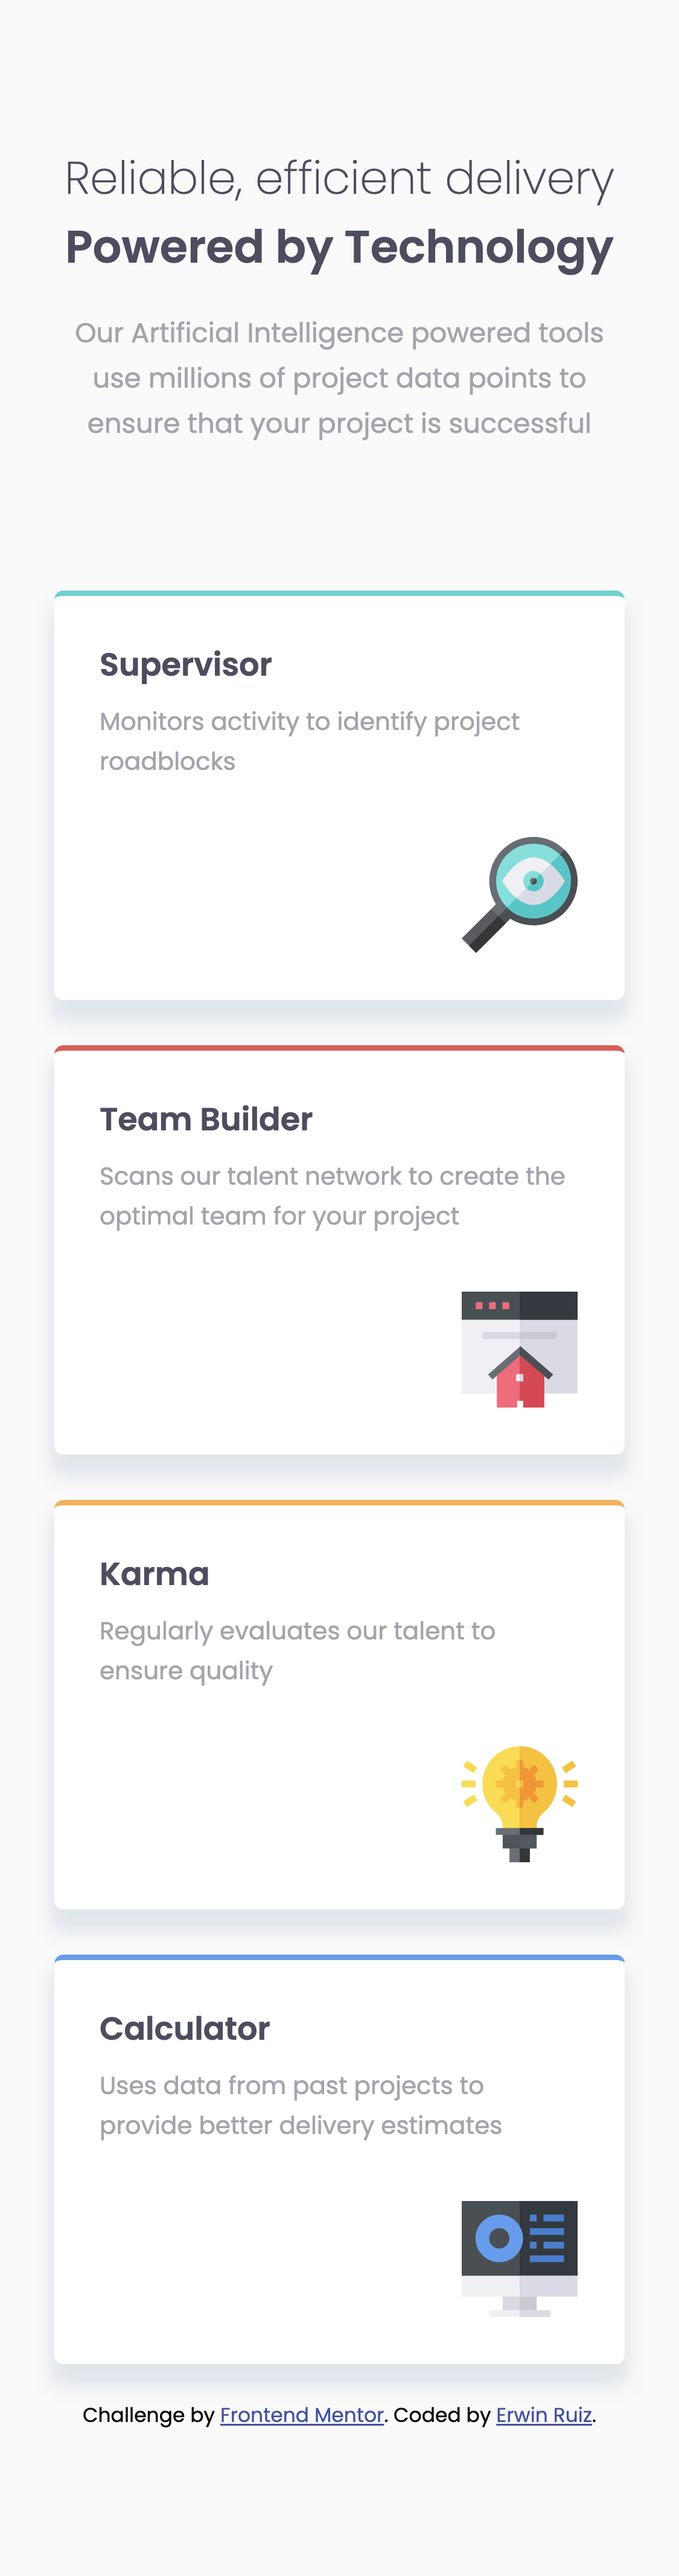
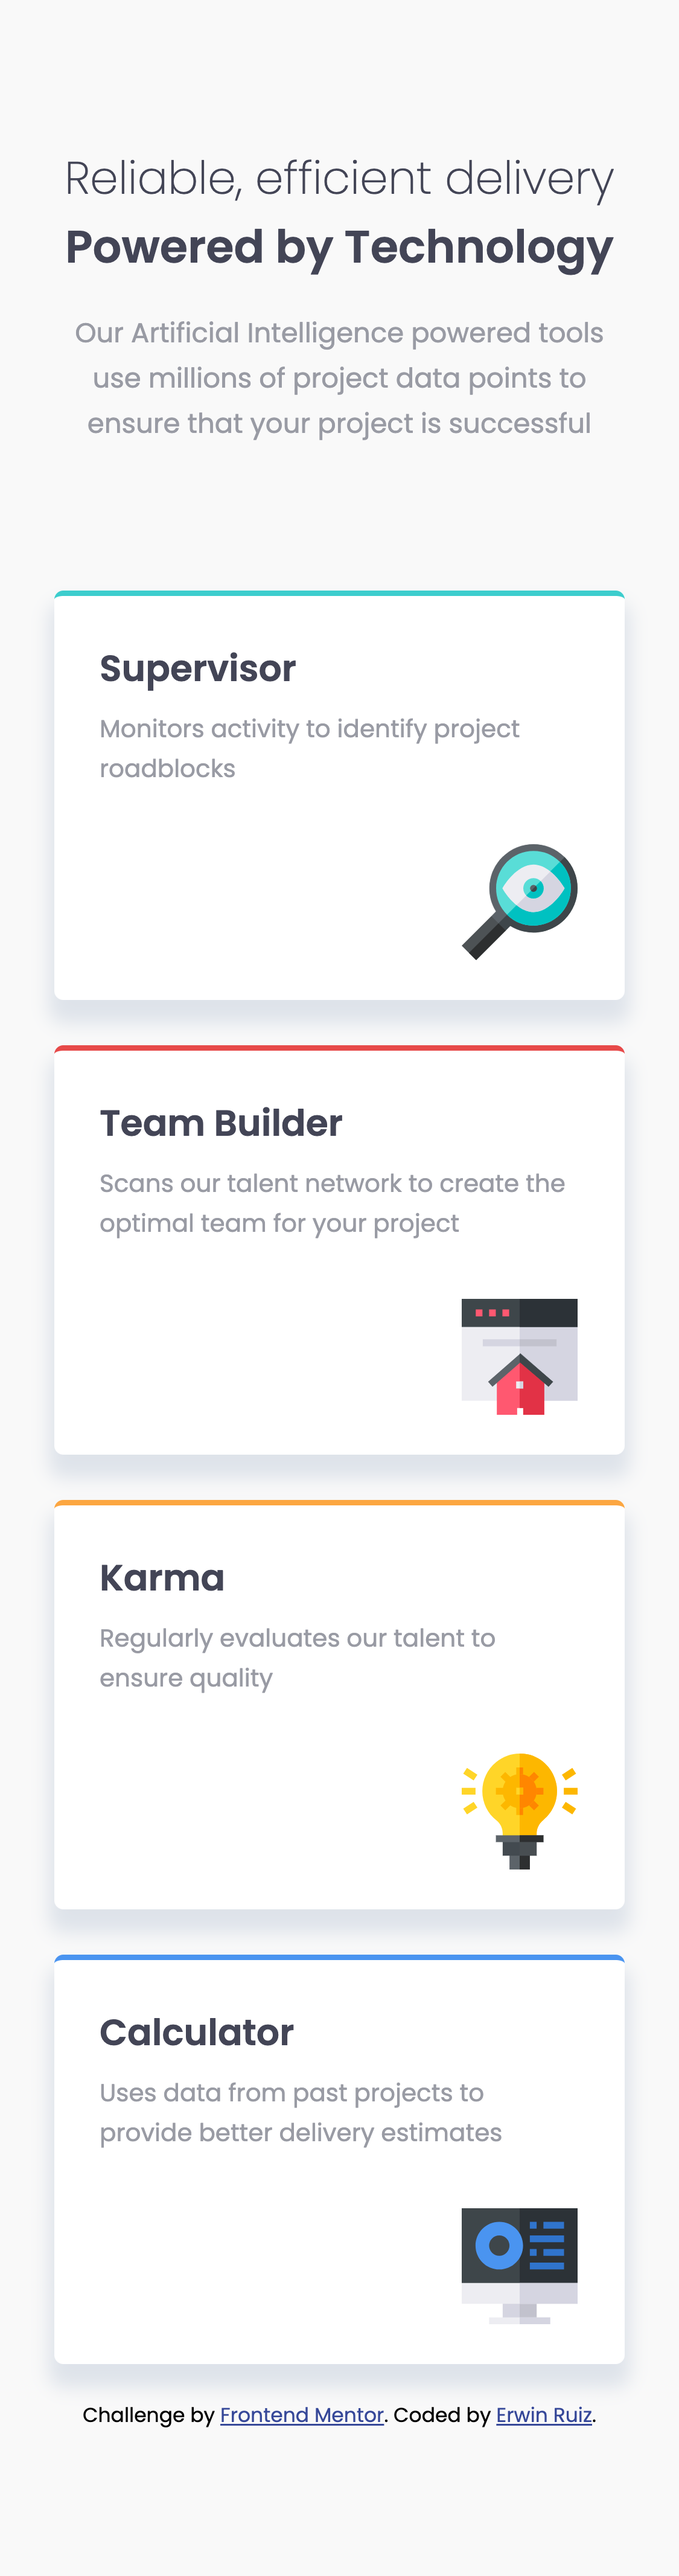
Add desktop design screenshot, change font-size of h1 tag and update README.md

diff --git a/styles.css b/styles.css
@@ -93,7 +93,7 @@ main .features .four {
     margin-bottom: 70px;
   }
   header h1 {
-    font-size: 30px;
+    font-size: 34px;
   }
   header h1 span {
     display: block;

diff --git a/README.md b/README.md
@@ -21,6 +21,7 @@ Users should be able to:
 
 ### Screenshot
 
+![](./screenshots/desktop-design.png)
 ![](./screenshots/mobile-design.png)
 
 ### Links
